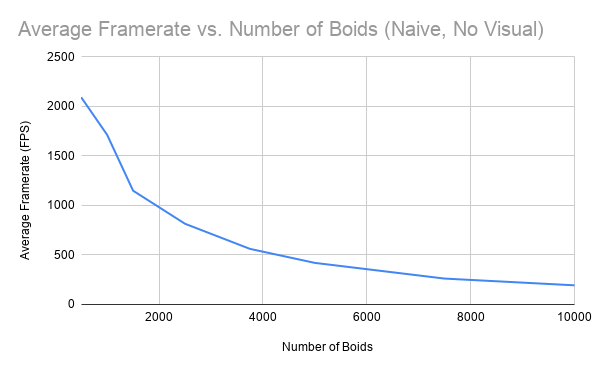
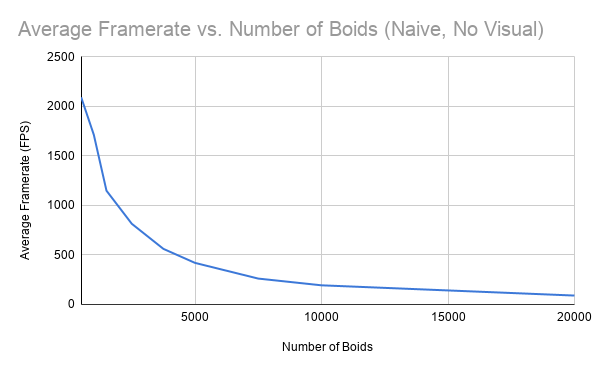
Fix coherent grid implementation

diff --git a/src/main.cpp b/src/main.cpp
@@ -13,12 +13,12 @@
 // ================
 
 // LOOK-2.1 LOOK-2.3 - toggles for UNIFORM_GRID and COHERENT_GRID
-#define VISUALIZE 0 
+#define VISUALIZE 0
 #define UNIFORM_GRID 0
 #define COHERENT_GRID 0
 
 // LOOK-1.2 - change this to adjust particle count in the simulation
-const int N_FOR_VIS = 5000;
+const int N_FOR_VIS = 20000;
 const float DT = 0.2f;
 
 /**

diff --git a/README.md b/README.md
@@ -5,39 +5,70 @@ Project 1 - Flocking**
   * [LinkedIn](https://www.linkedin.com/in/liujanine/), [personal website](https://www.janineliu.com/).
 * Tested on: Windows 10, i7-10750H CPU @ 2.60GHz 16GB, GeForce RTX 2070 8192 MB (personal computer)
 
-# Boids Simulation
 ![](images/boids_smaller.gif)
 ![](images/boids_fast_smaller.gif)
 ![](images/screenshotboth.png)
 
-This project involved a flocking simulation derived from the Reynolds Boids algorithm, with three different setups / implementations that were compared for performance.
+This project involved a flocking simulation based on [Conard Parker's notes](http://www.vergenet.net/~conrad/boids/pseudocode.html) on the Reynolds Boids algorithm, with three different setups / implementations that were compared for performance.
 
-# Performance Analysis Methods
+## Performance Analysis Methods
 
-The main measure of the simulation's performance is its, displayed in the top left corner of the window when the simulation runs. 
+The main measure of the simulation's performance is its, displayed in the top left corner of the window when the simulation runs.
 
-![](images/framerate.png);
+![](images/framerate.png)
 
-The program does not generate framerate graphs automatically, so instead of eyeballing an average, I gathered data by recording the application window for fifteen seconds. Using this video, data points could be created for the framerate at every second in the recording, and then plotted on time graphs as shown in the following sections. Since the graphic visuals of the simulation take resources to update (reducing the framerate of the simulation), I have also taken framerate data for when this visualizer is turned off. Clearly, these values will be higher than their visualized counterparts.
+The program does not generate framerate graphs automatically, so instead of eyeballing an average, I gathered data by recording the application window for fifteen seconds. Using this video, data points could be created for the framerate at every second in the recording, and then plotted on time graphs as shown in the following sections. Since the graphic visuals of the simulation take resources to update (reducing the framerate of the simulation), I have also taken framerate data for when this visualizer is turned off. Disabling vertical sync on my device results in a framerate *far* exceeding 60fps, even with visualization:
+
+![](images/highframerate.png)
 
 When the simulation starts, the first two values shown are always "0.0 fps", followed by an outlier number that is much higher or lower than the rest of the values for that trial. Therefore, when I take the average framerate from my data, I discount these two numbers so the average is a more accurate representation of the framerate once its initial spikes have settled.
 
 ## Naive Implementation
 
-In the naive implementation of this simulation, every boid checks against all other boids to calculate its velocity, even those that should have been outside of its search radius. The framerates were captured on my computer as below with a count of 5000 boids.
+In the naive implementation of this simulation, every boid checks against all other boids to calculate its velocity, even those that should have been outside of its search radius. The framerates for this version were captured on my computer with a count of 5000 boids.
 
-![](images/graph_naive_perf.png);
+![](images/graph_naive_perf.png)
 
-This method is essentially an <img src="https://render.githubusercontent.com/render/math?math=O(n^{2})"> algorithm; with a large number of boids in the simulation, the squared amount of time that this method takes results in the lowest framerate of the three implementations. To confirm this, I measured the average framerate for a varying number of boids in the unvisualized simulation, resulting in the inverse parabolic trajectory shown:
+This method is essentially an O(n^2) algorithm; with a large number of boids in the simulation, the squared amount of time that this method takes results in the lowest framerate of the three implementations. To confirm this, I measured the average framerate for a varying number of boids in the unvisualized simulation, resulting in the inverse parabolic trajectory shown:
 
-![](images/graph_naive_bnum.png);
+![](images/graph_naive_bnum.png)
 
+(I did not test farther than 20000 boids because at that amount of boids, the application was struggling to exit.)
+
+In addition to varying the number of boids in the simulation, I also experimented with different block sizes (and thus different block counts) for the kernels involved in the simulation. The hardware limitation of 1024 threads in an SM means that the largest block size I can test is 1024 threads per block (1 block).
+
+![](images/graph_naive_block.png)
+
+The default block size in the simulation is 128 threads per block; it seems to be the most optimal, as it has the maximum average framerate of all other block sizes. The smaller block sizes have a slight decrease in performance, but not as significant as that of the larger block sizes. Since an SM runs 8 threads in a cycle, putting them in larger blocks requires the SMs assigned to them to use more warp cycles, resulting in more latency between each set of threads in a block.
+
+dividing them into smaller than 128 doesn't utilize the full core, so it is less efficient.slight overhead cost in managig higher number of blocks? 
 ## Uniform Grid
 
-Disabling vertical sync on my device results in a framerate exceeding 60fps, even with visualization turned off. I include the statistics for both visualization on and off.
+The first optimiziation of this simulation is a uniform grid that is mapped onto the 3D space the boids move in. This results in a . 
+
+![](images/graph_unif_perf.png)
+
+Clearly, this is a drastic improvement from the naive implementation. The framerate is more than three times higher than the framerate for the naive algorithm at 5000 boids. Varying the number of boids for the
+
+Reason that 27 takes so uch time is that there's more probability to have boids that are out of bounds of the thing that are checked anyway. The corners of the ; more corner area means more potential unnecessary checks, and since these boids are fairly close to one another because of the flocking behavior, there are probably a good number of checks.
 
 ###Grid Looping Optimization
 
-Since the distances of 
+When I was implementing the uniform grid search, I did not realize we could hardcode eight or twenty-seven cube; I thought that our radius should accommodate changes in the neighbor distances, not realizing this is extra credit. But regardless, my implementation tests for the maximum distance. This at least makes it flexible, but it still causes cubes
+
+This source ([x](https://stackoverflow.com/questions/4578967/cube-sphere-intersection-test)) helped me to implement this optimization.
+
 
 ## Coherent Data Buffers
+
+The second optimization involves semi-coherent data. From this point forth, this implementation will be referred to as the "coherent grid" implementation for simplicity.
+
+![](images/graph_coh_perf.png)
+
+Comparison of all three
+
+![](images/graph_all_perf.png)
+
+between 4800 - 4900
+
+between 29000 - 36000 weird dip to about 1100 fps. Same thing with from 60000 (roughly 1300-1400 fps) to 61000 (roughly 1100 fps), but afterwards it plateaus all the way up to 70000.
